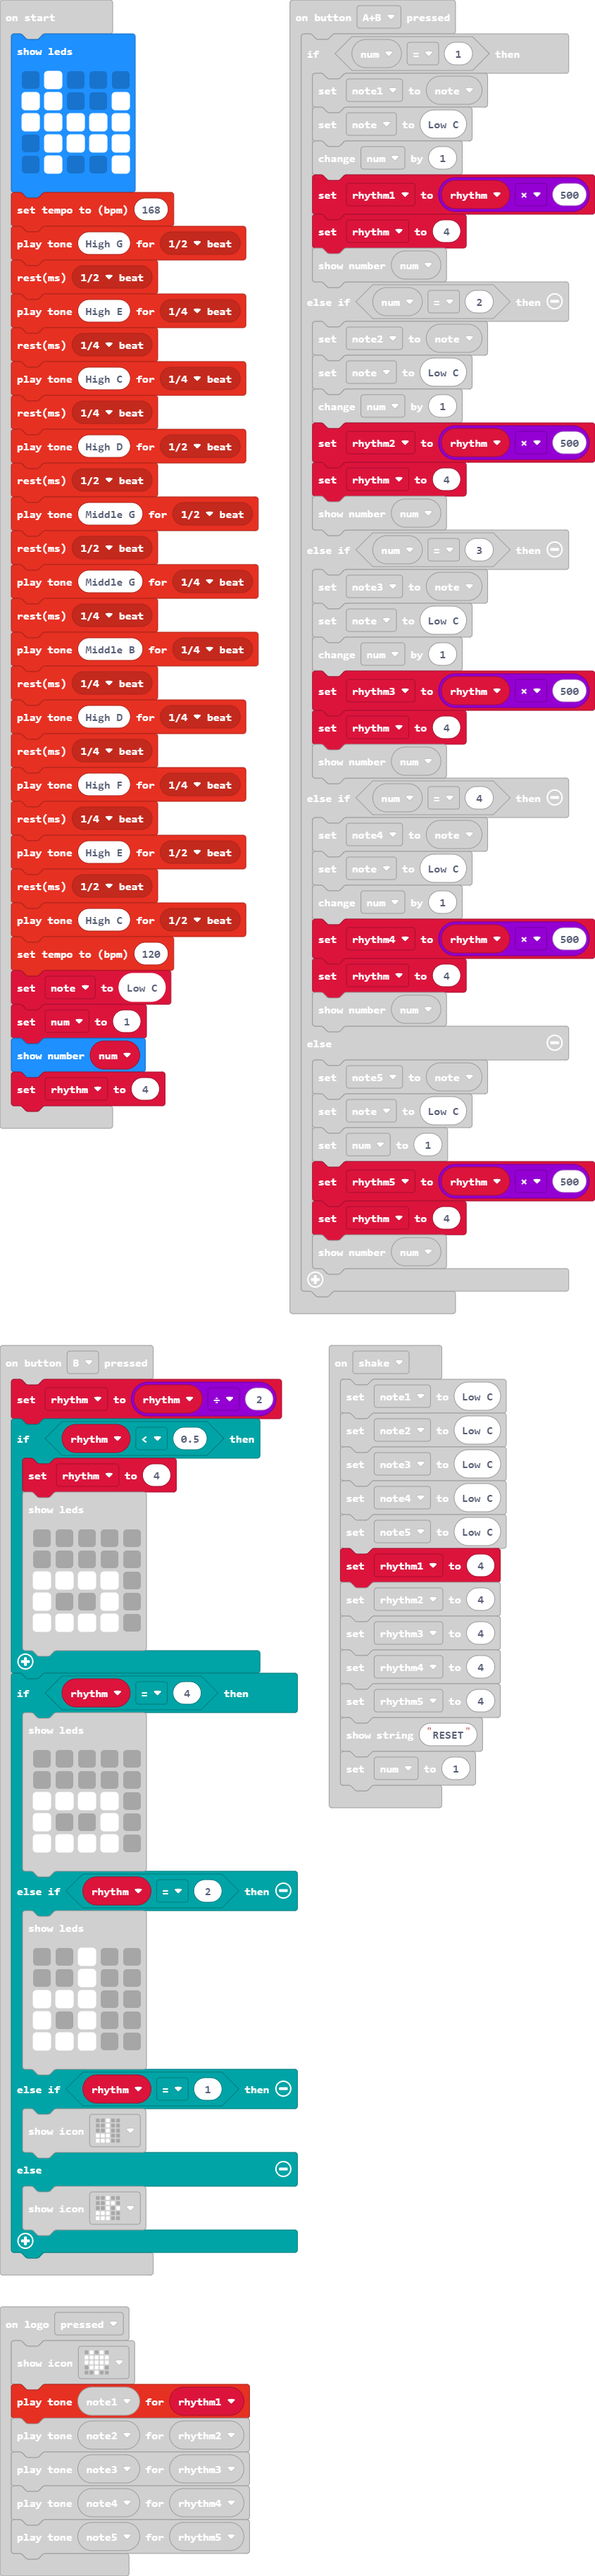
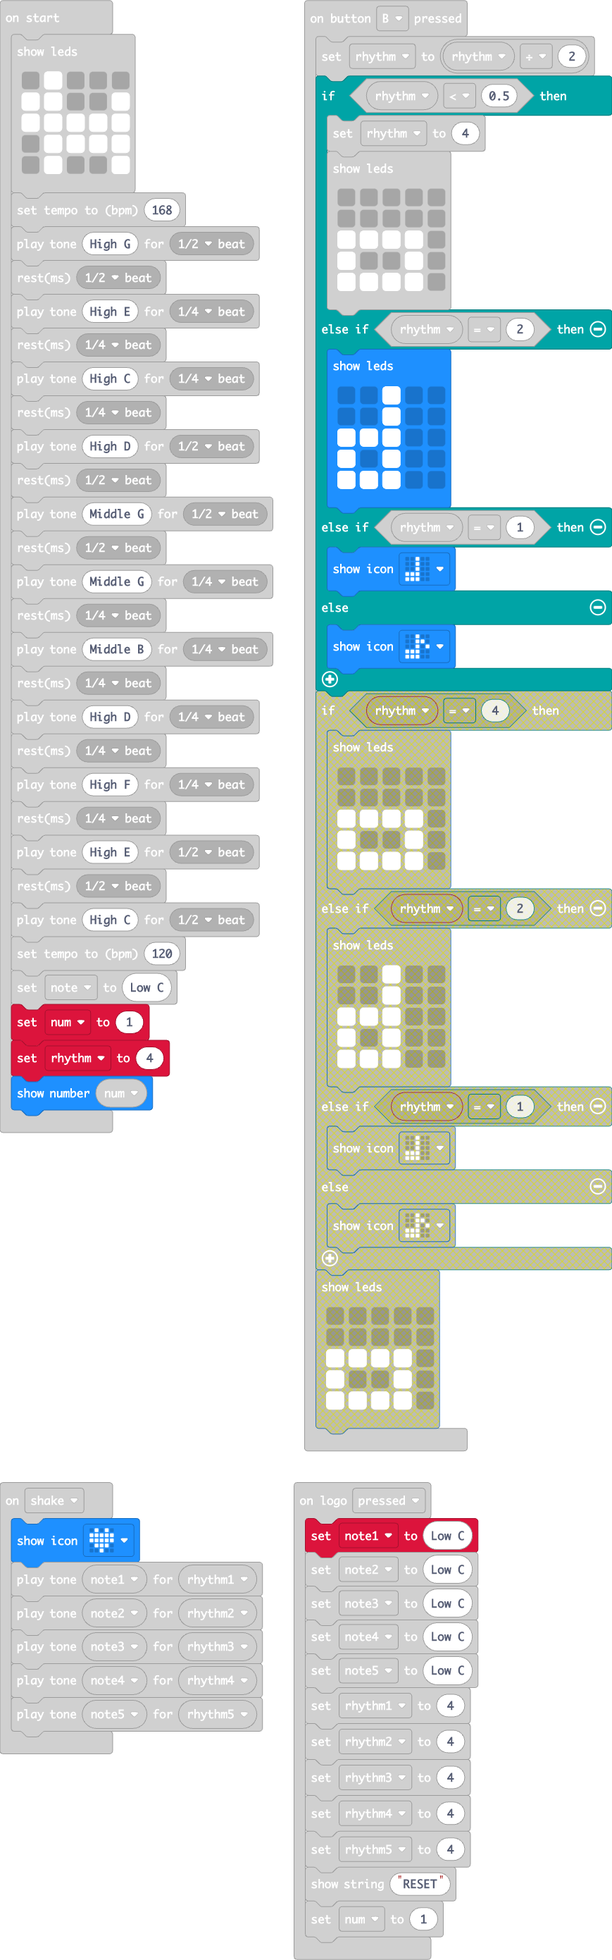
Update main.blocks, main.ts

diff --git a/main.ts b/main.ts
@@ -54,15 +54,6 @@ input.onButtonPressed(Button.B, function () {
             # . . # .
             # # # # .
             `)
-    }
-    if (rhythm == 4) {
-        basic.showLeds(`
-            . . . . .
-            . . . . .
-            # # # # .
-            # . . # .
-            # # # # .
-            `)
     } else if (rhythm == 2) {
         basic.showLeds(`
             . . # . .
@@ -78,6 +69,14 @@ input.onButtonPressed(Button.B, function () {
     }
 })
 input.onGesture(Gesture.Shake, function () {
+    basic.showIcon(IconNames.Heart)
+    music.playTone(note1, rhythm1)
+    music.playTone(note2, rhythm2)
+    music.playTone(note3, rhythm3)
+    music.playTone(note4, rhythm4)
+    music.playTone(note5, rhythm5)
+})
+input.onLogoEvent(TouchButtonEvent.Pressed, function () {
     note1 = 131
     note2 = 131
     note3 = 131
@@ -90,14 +89,6 @@ input.onGesture(Gesture.Shake, function () {
     rhythm5 = 4
     basic.showString("RESET")
     num = 1
-})
-input.onLogoEvent(TouchButtonEvent.Pressed, function () {
-    basic.showIcon(IconNames.Heart)
-    music.playTone(note1, rhythm1)
-    music.playTone(note2, rhythm2)
-    music.playTone(note3, rhythm3)
-    music.playTone(note4, rhythm4)
-    music.playTone(note5, rhythm5)
 })
 let rhythm5 = 0
 let note5 = 0
@@ -144,5 +135,5 @@ music.playTone(523, music.beat(BeatFraction.Half))
 music.setTempo(120)
 note = 131
 num = 1
-basic.showNumber(num)
 rhythm = 4
+basic.showNumber(num)
